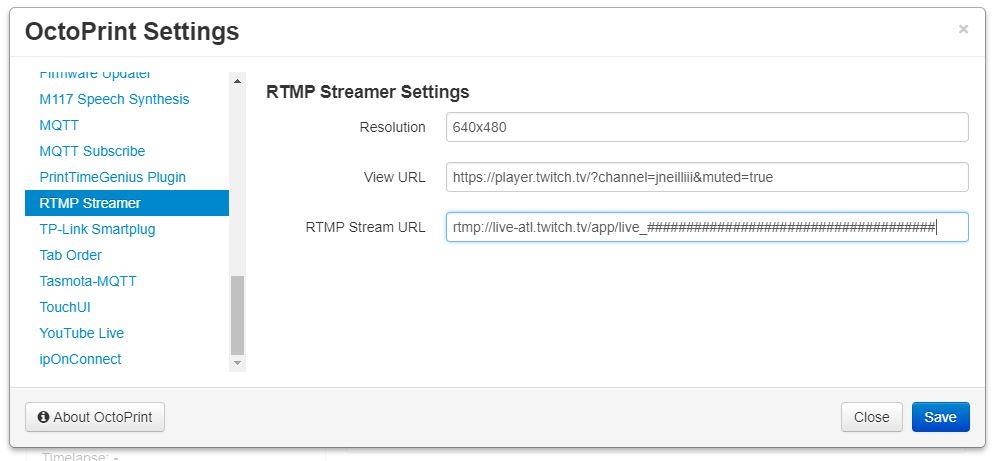
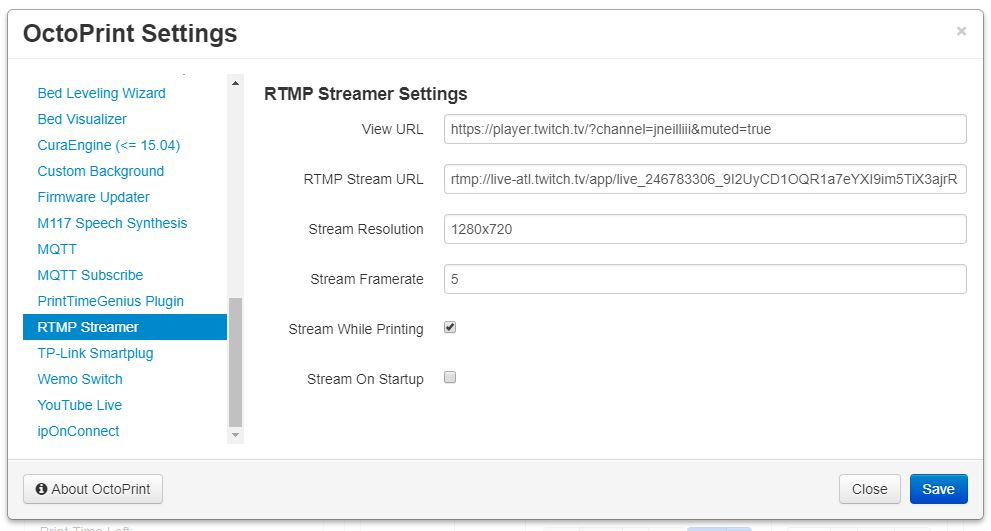
0.1.3

diff --git a/octoprint_rtmpstreamer/__init__.py b/octoprint_rtmpstreamer/__init__.py
@@ -26,6 +26,10 @@ class rtmpstreamer(octoprint.plugin.StartupPlugin,
 		except Exception, e:
 			self._logger.error(str(e))
 			self._plugin_manager.send_plugin_message(self._identifier, dict(status=True,streaming=False))
+			
+		if self._settings.get(["auto_start_on_power_up"]) and self._settings.get(["stream_url"]) != "":
+			self._logger.info("Auto starting stream on start up.")
+			self.startStream()
 	
 	##~~ TemplatePlugin
 	def get_template_configs(self):
@@ -48,7 +52,7 @@ class rtmpstreamer(octoprint.plugin.StartupPlugin,
 		
 	##~~ SettingsPlugin
 	def get_settings_defaults(self):
-		return dict(view_url="",stream_url="",stream_resolution="640x480",stream_framerate="5",streaming=False,auto_start=False)
+		return dict(view_url="",stream_url="",stream_resolution="640x480",stream_framerate="5",streaming=False,auto_start=False,auto_start_on_power_up=False)
 		
 	##~~ SimpleApiPlugin	
 	def get_api_commands(self):

diff --git a/setup.py b/setup.py
@@ -14,7 +14,7 @@ plugin_package = "octoprint_rtmpstreamer"
 plugin_name = "RTMP Streamer"
 
 # The plugin's version. Can be overwritten within OctoPrint's internal data via __plugin_version__ in the plugin module
-plugin_version = "0.1.2"
+plugin_version = "0.1.3"
 
 # The plugin's description. Can be overwritten within OctoPrint's internal data via __plugin_description__ in the plugin
 # module
